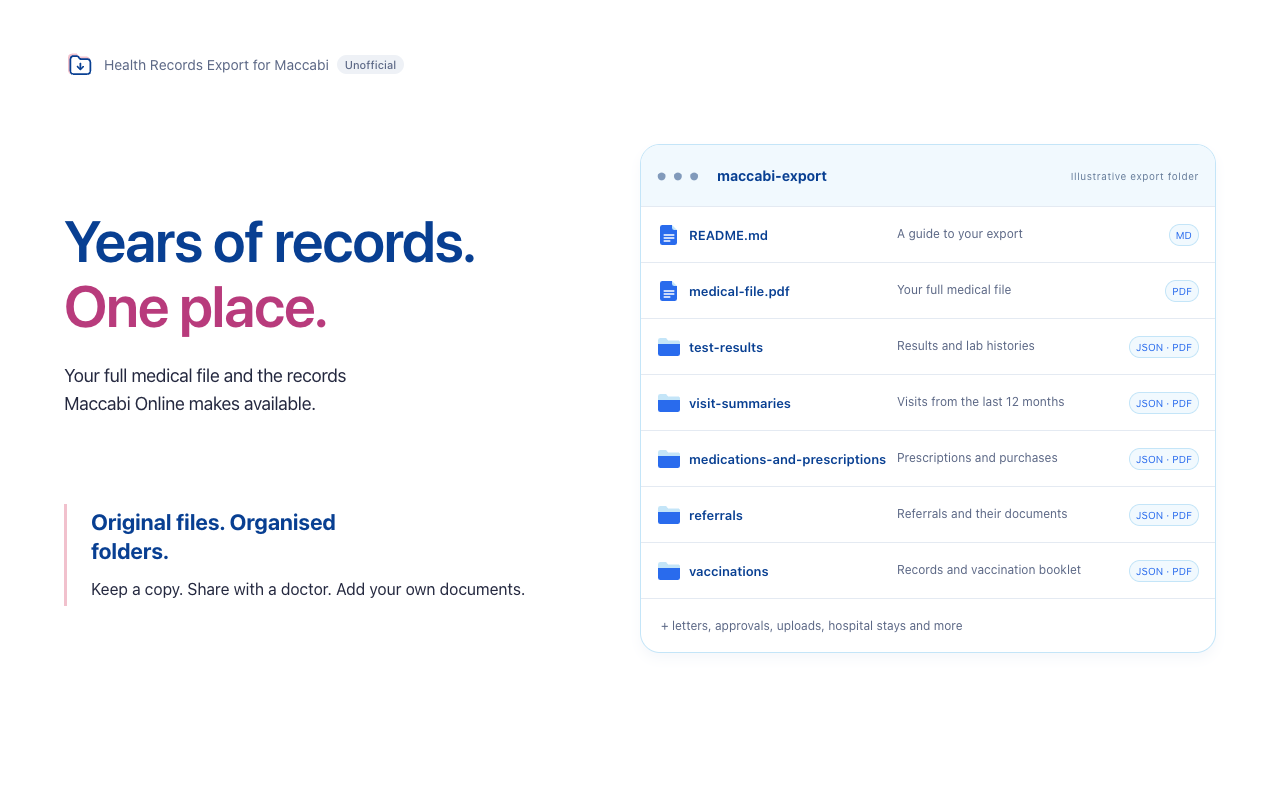
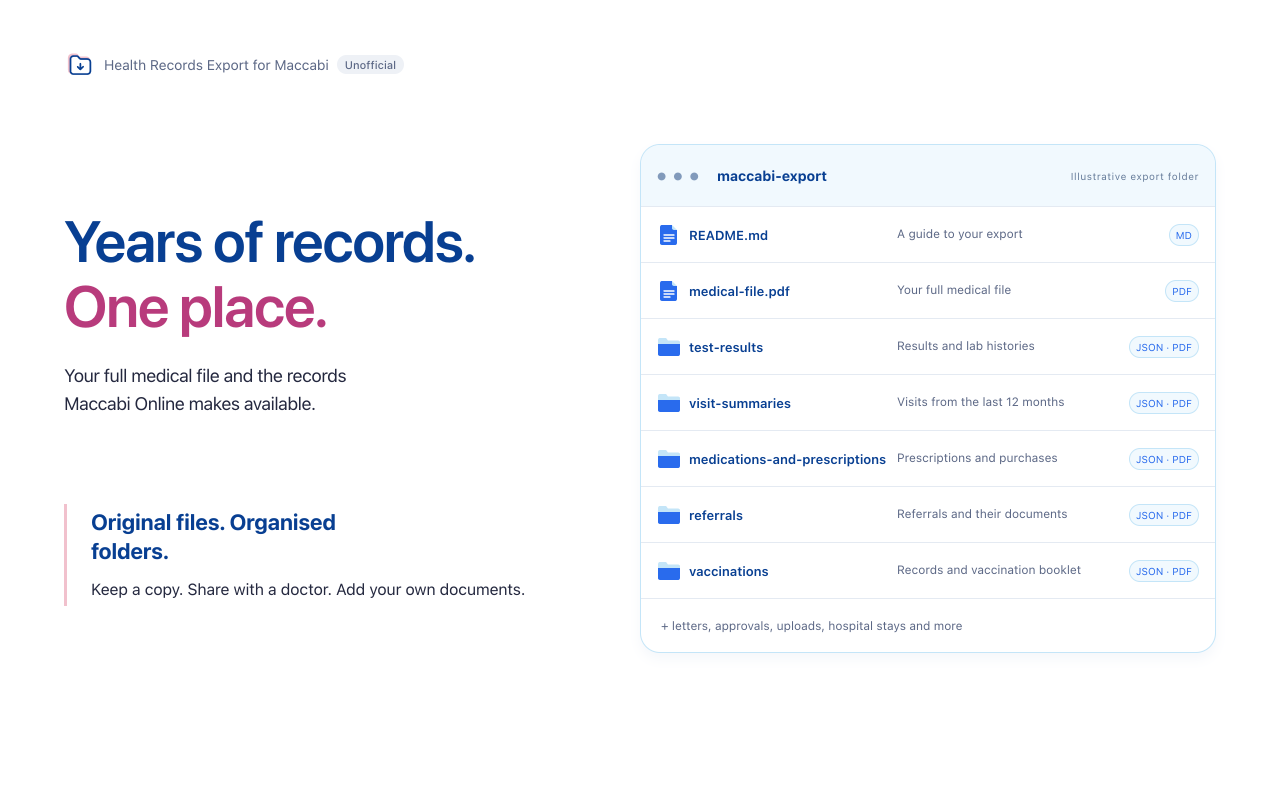
Draw the store images at 2x and scale the store sizes down from them
npm run store-assets now draws every shot at twice its size, keeps that as
<name>@2x.png, and makes the store-sized PNG by scaling the drawing down in
the browser. --scale 1 draws only the store sizes, as before. The README hero
uses the 2x screenshot, and check-store-assets verifies the 2x files too.

Changed region(s): [[0.1562, 0.7188, 0.25, 0.75], [0.125, 0.5, 0.1875, 0.5312], [0.375, 0.7188, 0.4062, 0.75]]

diff --git a/CONTRIBUTING.md b/CONTRIBUTING.md
@@ -262,7 +262,7 @@ npm run release        # all of it from clean: tests, dist-dev/, the release ZIP
 npm run release:zip    # the same without the store images and the video
 npm run clean          # remove dist/, dist-dev/, dist-store/, dist-cli/ and release/
 npm run package        # release/health-records-export-for-maccabi-<version>.zip for the Chrome Web Store and GitHub release
-npm run store-assets   # approved store/assets/ images, upload bundle, video poster and web link previews (Chrome; CHROME_PATH)
+npm run store-assets   # approved store/assets/ images at 2x and store size, upload bundle, video poster and web link previews (Chrome; CHROME_PATH)
 node scripts/check-store-assets.mjs # validate eight listing PNGs, dimensions, manifest and ZIP
 npm run store-video    # store/assets/promo-video.mp4, the promo video (same browser; ffmpeg if you have it)
 npm run icons          # hand-tuned public/icons/; the store icon is `npm run store-assets -- icon`
@@ -272,7 +272,9 @@ npm run icons          # hand-tuned public/icons/; the store icon is `npm run st
 and the *Store images* workflow all generate the approved design into `store/assets/`. Inspect `store/assets/review.html`
 and use `store/assets/store-artwork.zip` (gitignored: written by each render; upload one rendered on a Mac, not the Store images workflow's artifact) for its eight upload PNGs; `store-artwork.json` records dimensions and SHA-256
 hashes. `node scripts/check-store-assets.mjs` checks these against the PNGs. Named shots still work, including `icon`,
-`poster`, `og-site` and `social`. A render that includes a listing shot rewrites the bundle from all eight images, and stops with an error if one is missing.
+`poster`, `og-site` and `social`. Each image is drawn at twice its size and kept as `<name>@2x.png` (the README's
+hero is one), and the file at its own size, the one the store takes, is that drawing scaled down by the browser;
+`--scale 1` draws only the store-sized files, as renders did before, and `--scale 3` a larger drawing. A render that includes a listing shot rewrites the bundle from all eight images, and stops with an error if one is missing.
 Updating listing images alone does not require a new extension package or version bump.
 
 The layouts and SVG illustration live in `store/design/listing.mjs`, with the approved CSS in
@@ -285,8 +287,10 @@ to the canonical assets.
 The image and video renderers build the local store stage with Vite and photograph it in headless Chrome. They need
 a local listening port, Node.js 22 or newer, installed dependencies, and Chrome, Chromium or Edge (`CHROME_PATH` overrides
 discovery). The fonts installed on the rendering machine change the pixels, as the next paragraph says. The latest renderer enables the popup's reduced-motion styles and waits two animation frames
-before each capture. All eight latest PNGs matched byte for byte across two consecutive runs on 25 October 2026;
-the ZIP entries matched the exported files too. This check applies to the same browser, fonts and operating system,
+before each capture. All eight latest PNGs matched byte for byte across two consecutive runs on 25 October 2026,
+and again, with their 2x drawings, on 26 October; the ZIP entries matched the exported files too. The video poster
+does not: drawn at 4K, its pixels differ by a level or two from run to run, so leave it out of a commit that is not
+about it. This check applies to the same browser, fonts and operating system,
 not to renders across different environments.
 
 The store images and video show the real popup with made-up states. The store images are rendered on a Mac without

diff --git a/.claude/skills/store-media/SKILL.md b/.claude/skills/store-media/SKILL.md
@@ -21,8 +21,11 @@ The approved listing images are the default for `npm run store-assets`, `npm run
 workflow. Canonical outputs are the eight PNGs in `store/assets/`, with `review.html` and `store-artwork.json`
 (committed) and `store-artwork.zip` (gitignored: written by each render; upload one rendered on a Mac, not the Store
 images workflow's artifact). CI validates the bundle and uploads its ZIP and hash manifest as an artifact. The README hero uses
-`store/assets/screenshot-1-ask.png`. Named shots include the five screenshots, `promo`, `marquee`, `icon`, `poster`,
+`store/assets/screenshot-1-ask@2x.png`. Named shots include the five screenshots, `promo`, `marquee`, `icon`, `poster`,
 `og-site` and `social`; `npm run store-assets -- start open` updates only those shots, then refreshes the bundle.
+Every shot is drawn at 2x (`<name>@2x.png`, committed beside it) and its
+store-sized file is that drawing scaled down; `--scale 1` draws only the store size. The 4K poster differs by a level
+or two between runs; the other images are byte for byte.
 The proposal renderer and `--mock` flag are retired. `store/redesign/mock-review.html` preserves the historical
 comparison; the latest column links to canonical assets. See `store/redesign/README.md` and `docs/store-listing.md`.
 

diff --git a/CLAUDE.md b/CLAUDE.md
@@ -29,7 +29,8 @@ npm run env                       # write .env from 1Password, by the references
 npm run clean                     # remove dist/, dist-dev/, dist-store/, dist-cli/, release/
 npm run release:zip               # clean, test, build:dev, package
 npm run release                   # release:zip, then store-assets, store-video
-npm run store-assets              # approved store/assets/ images, upload ZIP, poster and link previews (Chrome; CHROME_PATH)
+npm run store-assets              # approved store/assets/ images at 2x and store size, upload ZIP, poster and link previews (Chrome; CHROME_PATH)
+npm run store-assets -- --scale 1 # store sizes only, no @2x drawings
 node scripts/check-store-assets.mjs # verify PNG dimensions, hashes, colour types and ZIP contents
 npm run store-assets -- marquee   # just one, by shot name
 npm run store-video               # re-render store/assets/promo-video.mp4 (not committed; ffmpeg or macOS)

diff --git a/docs/store-listing.md b/docs/store-listing.md
@@ -147,6 +147,8 @@ validates the bundle and offers its ZIP and hash manifest as a downloadable arti
 `--mock` flag are retired. Use shot names to select outputs, e.g. `npm run store-assets -- marquee icon`.
 
 Upload screenshots in the numbered order above. They are opaque, full-bleed 1280×800 PNGs; the icon retains alpha.
+Each is drawn at twice that size and scaled down; the 2× drawing is kept beside it as `<name>@2x.png` for the README and
+anywhere else that wants it sharper, but the store takes only the sizes in the table.
 The images follow the existing design system and [positioning](positioning.md), with a small **Unofficial** chip
 beside the product title instead of a full disclaimer footer. Screenshots 1 and 3 label illustrative assistant output;
 screenshot 2 labels its export folder; screenshots 4 and 5 use the actual popup with synthetic states from

diff --git a/README.md b/README.md
@@ -20,7 +20,7 @@ where an assistant can read all of it.
 
 <p align="center">
   <a href="https://maccabi.ronirachmani.com/#ask">
-    <img src="store/assets/screenshot-1-ask.png" alt="Your whole Maccabi history. Ready to ask: an export folder illustration and a synthetic assistant answer citing a penicillin rash in medical-file.pdf, page 14" width="720">
+    <img src="store/assets/screenshot-1-ask@2x.png" alt="Your whole Maccabi history. Ready to ask: an export folder illustration and a synthetic assistant answer citing a penicillin rash in medical-file.pdf, page 14" width="720">
   </a>
 </p>
 

diff --git a/store/redesign/README.md b/store/redesign/README.md
@@ -55,6 +55,7 @@ npm run store-assets -- icon           # approved padded store icon
 npm run store-assets -- poster         # video poster, drawn by the video's own page
 npm run store-assets -- og-site social # landing-page preview and approved marquee at GitHub size
 npm run store-assets -- --list         # available shot names, filenames and dimensions; no browser needed
+npm run store-assets -- --scale 1      # store sizes only, with no @2x drawings
 npm run icons                         # packaged toolbar icons only; the store icon is the `icon` shot
 ```
 
